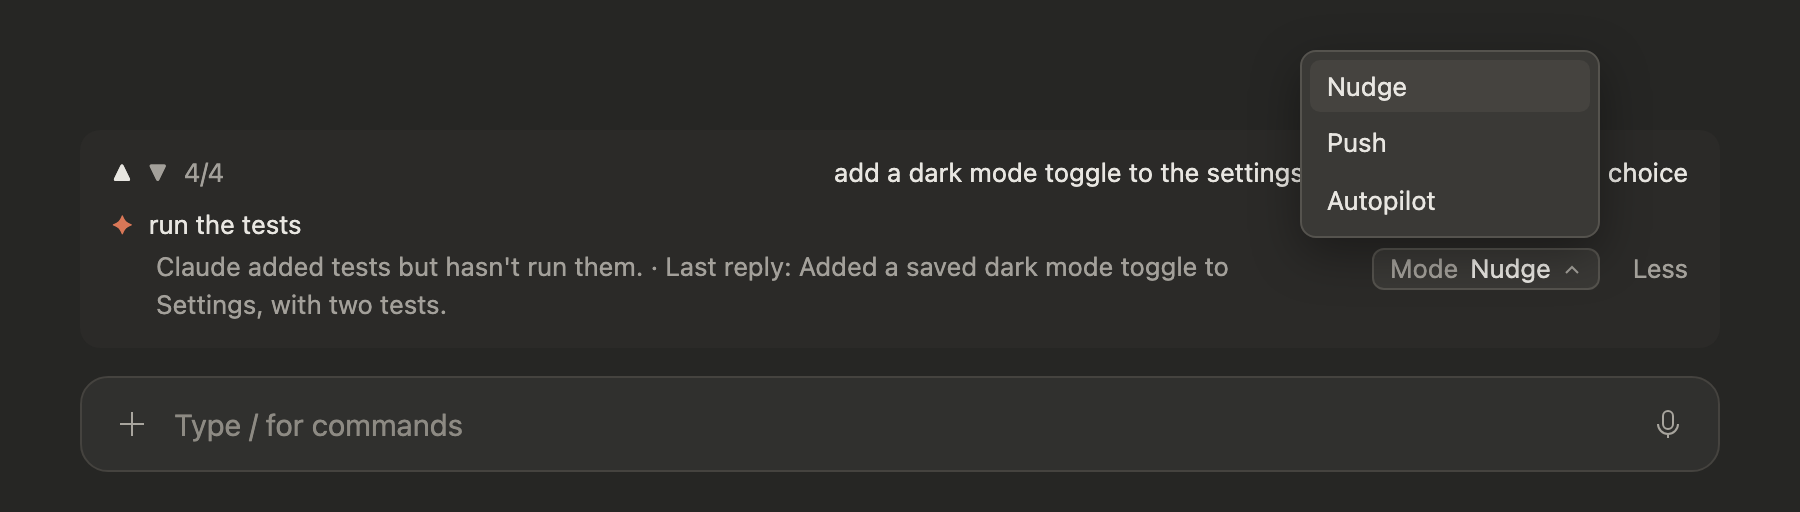
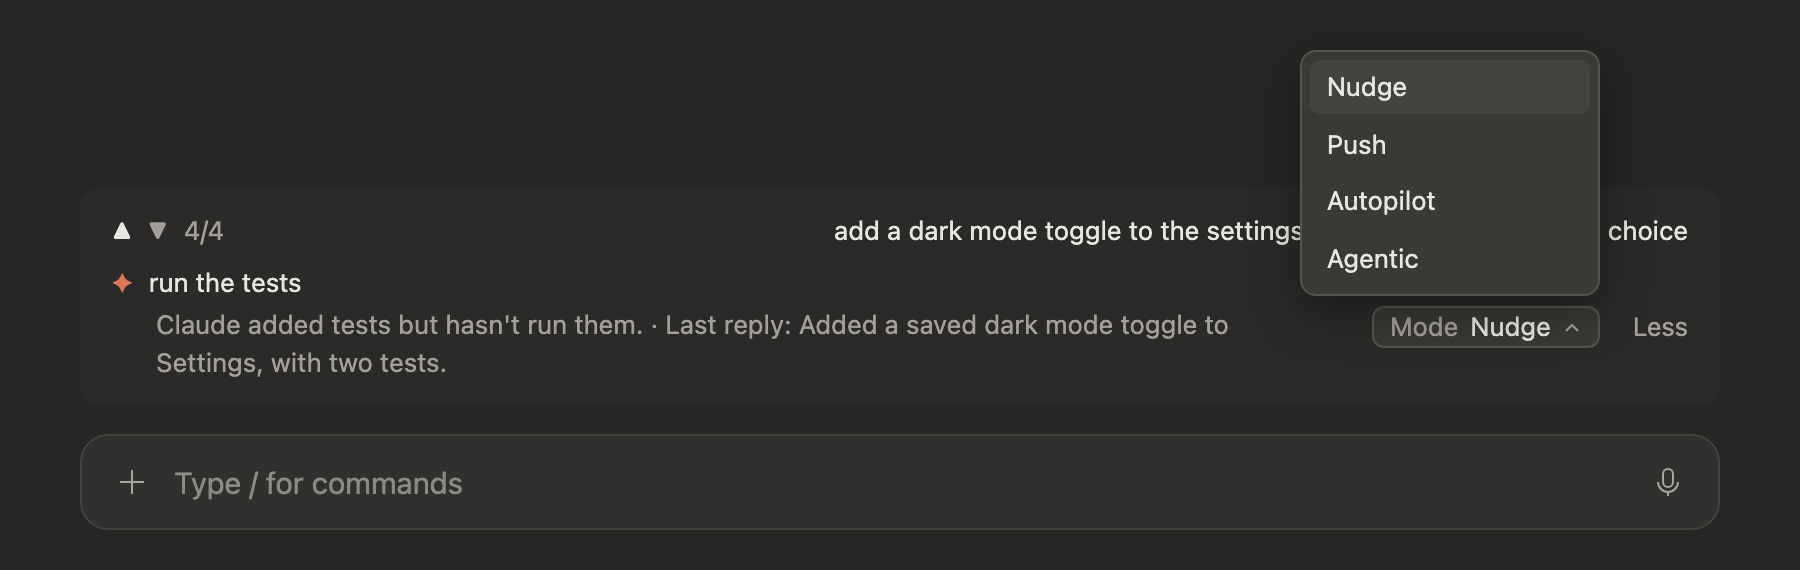
Add an Agentic mode: the Autopilot brief, ending in a pull request
Autopilot keeps its work on the developer's machine: by its own rule a
brief leaves out pushing, and a third of recent briefs said so outright.
That is wanted, so its prompt is unchanged, byte for byte.

Agentic is a fourth mode for the times a pull request is the point. It
asks for the same hand-over (goal, a done condition Claude can check,
keep going, a closing summary) and then for three named steps: commit on
the branch the session is working on, or on a new one if that is the
default branch; push that branch; open a pull request, or update the one
the session already opened. The brief tells Claude not to merge, deploy,
push to the default branch or force-push. Work that changes no files,
such as an investigation, gets no pull request. Migrations, seed
scripts, deleting data and posting comments still need the developer's
word in the session.

It runs on Fable 5.2 like Autopilot, with room for a slightly longer
brief (200 words, 1,400 characters). `/suggest agentic` and the Mode
dropdown pick it. The README, the dropdown mock-up and its screenshot
show four modes. Version 1.2.0.

diff --git a/hooks/suggestions.tsx b/hooks/suggestions.tsx
@@ -112,10 +112,26 @@ Claude finished a refactor and listed two call sites it left alone: Update the t
 // blockers, exact names for what is and is not approved, and a closing
 // summary that stands on its own. It is written as prose because the brief
 // must be prose, and a prompt's own format shows up in its output.
+const HANDOVER = `Write the message they would send to hand Claude the whole next piece of work to run on its own. Say what Claude could not work out alone: the goal, with the files, commands or areas the conversation named for it; what done looks like, as something Claude can check itself (tests or a build passing, a page behaving a certain way, a question answered with evidence); and any limit the developer set earlier in the session, such as read-only, one environment, or files to leave alone. Ask Claude to keep going until it gets there, or until an investigation reaches a conclusion, working through ordinary errors on its own and stopping early only for something it needs from the developer. Ask it to finish with a short summary that stands on its own: what it did, what it found, what is left.
+Stay within what this conversation is building: no unrelated new ideas.`
+
+// Autopilot stays on the person's machine: by 2026-11-17 a third of its
+// briefs told Claude not to push, and the person likes that it "just grinds
+// locally".
 const AUTOPILOT = `Size: one paragraph of plain sentences, 60 to 150 words, written the way they write. The app draws it as a single paragraph and discards anything longer than 170 words.
-Write the message they would send to hand Claude the whole next piece of work to run on its own. Say what Claude could not work out alone: the goal, with the files, commands or areas the conversation named for it; what done looks like, as something Claude can check itself (tests or a build passing, a page behaving a certain way, a question answered with evidence); and any limit the developer set earlier in the session, such as read-only, one environment, or files to leave alone. Ask Claude to keep going until it gets there, or until an investigation reaches a conclusion, working through ordinary errors on its own and stopping early only for something it needs from the developer. Ask it to finish with a short summary that stands on its own: what it did, what it found, what is left.
-Stay within what this conversation is building: no unrelated new ideas.
+${HANDOVER}
 Leave out steps that are hard to undo or that reach beyond the developer's machine (deploying, pushing, merging, running migrations or seed scripts, deleting data, posting comments or messages) unless the developer already asked for that step in this session; then name the exact step.`
+
+// Agentic is Autopilot that ends in a pull request (the person's ask,
+// 2026-11-18: "actually does some PRs but no merge or deploys"). The brief
+// names what is approved (commit, push the branch, the pull request) and what
+// is not, because Claude acts on exactly what a message approves. Picking the
+// mode is the person's standing yes to those three steps; everything else
+// that reaches outward still needs their word in the session.
+const AGENTIC = `Size: one paragraph of plain sentences, 80 to 170 words, written the way they write. The app draws it as a single paragraph and discards anything longer than 200 words.
+${HANDOVER}
+This mode ends in a pull request and goes no further. When the work changes files, ask Claude to finish, once it is done and checked, by committing on the branch the session is working on, or on a new branch if that is the default branch, pushing that branch, and opening a pull request, or updating the one this session already opened, with a description of what changed, how it was checked and what is left. Have the message say that Claude must not merge the pull request, deploy, push to the default branch or force-push. When the work changes no files, such as an investigation, ask for the findings and no pull request.
+Leave out running migrations or seed scripts, deleting data, and posting comments or messages other than the pull request itself, unless the developer already asked for that step in this session; then name the exact step.`
 
 // NEXT comes first so a reply cut short still carries the guess. The reason
 // is asked for a silence too, so the log says why a turn got no suggestion.
@@ -208,12 +224,30 @@ const LENGTHS: Record<Length, LengthRule> = {
     answerChars: 10_000,
     prompts: 6,
   },
+  // Autopilot's model and reading; the brief also carries the hand-off to a
+  // pull request, so it may run a little longer.
+  agentic: {
+    model: 'claude-fable-5-2',
+    modelName: 'Fable 5.2',
+    effort: 'high',
+    format: AGENTIC,
+    maxWords: 200,
+    maxChars: 1_400,
+    maxTokens: 8_000,
+    answerChars: 10_000,
+    prompts: 6,
+  },
 }
 
-const LENGTH_NAMES: readonly Length[] = ['short', 'medium', 'thorough']
-// The names the person sees (their pick, 2026-11-05); the stored values stay
-// short, medium and thorough.
-const LENGTH_LABELS: Record<Length, string> = { short: 'Nudge', medium: 'Push', thorough: 'Autopilot' }
+const LENGTH_NAMES: readonly Length[] = ['short', 'medium', 'thorough', 'agentic']
+// The names the person sees (their picks, 2026-11-05 and 2026-11-18); the
+// stored values stay short, medium, thorough and agentic.
+const LENGTH_LABELS: Record<Length, string> = {
+  short: 'Nudge',
+  medium: 'Push',
+  thorough: 'Autopilot',
+  agentic: 'Agentic',
+}
 const LENGTH_KEY = 'length'
 // A guess longer than this is drawn as wrapping text with its own button: a
 // button's label never wraps on the desktop.
@@ -652,7 +686,7 @@ function status(length: Length, isCompact: boolean) {
   const lines = recent.length > 0 ? recent.map(line => `- ${line}`).join('\n') : '- nothing yet'
 
   return [
-    `Fill-in suggestions are always on. Mode: ${LENGTH_LABELS[length]}, written by ${LENGTHS[length].modelName} (/suggest nudge, push or autopilot).`,
+    `Fill-in suggestions are always on. Mode: ${LENGTH_LABELS[length]}, written by ${LENGTHS[length].modelName} (/suggest nudge, push, autopilot or agentic).`,
     `View: ${isCompact ? 'one line' : 'full'} (/suggest compact or full).`,
     `This session:\n${lines}`,
   ].join(' ')
@@ -663,7 +697,7 @@ export async function startSuggestions($: EngineInterface) {
   await $.command.register({
     name: 'suggest',
     description: 'Show what the suggestion fill-in did, or set its mode',
-    argumentHint: 'nudge | push | autopilot | compact | full',
+    argumentHint: 'nudge | push | autopilot | agentic | compact | full',
   })
   // The length and the view are the person's standing choices, so every
   // session starts with them.
@@ -743,7 +777,7 @@ export function registerSuggestions(on: On) {
     }
     const length = lengthNamed(arg)
     if (length === undefined) {
-      return { text: `Unknown option "${arg}". Use /suggest nudge, /suggest push or /suggest autopilot.` }
+      return { text: `Unknown option "${arg}". Use /suggest nudge, /suggest push, /suggest autopilot or /suggest agentic.` }
     }
     const why = await chooseLength($, length)
     const again = why === 'asking again' ? ' Writing a new suggestion for this reply.' : ''

diff --git a/hooks/suggestions.test.tsx b/hooks/suggestions.test.tsx
@@ -589,6 +589,8 @@ test('/suggest thorough asks for a whole task, keeps it, and draws a long guess 
   await clock.advance(SHOWS)
   expect(seen.asks[0]).toContain('keep going until it gets there')
   expect(seen.asks[0]).toContain('Leave out steps that are hard to undo')
+  // Autopilot stays on the person's machine: the pull request is Agentic's.
+  expect(seen.asks[0]).not.toContain('pull request')
   expect(seen.shown).toEqual([BRIEF])
   // Every Autopilot brief is Fable's.
   expect(seen.models.length).toBeGreaterThan(0)
@@ -607,6 +609,40 @@ test('/suggest thorough asks for a whole task, keeps it, and draws a long guess 
   // The old names still work.
   expect((await $.command.run(slash('medium'))).text).toContain('Suggestion mode: Push (Opus 5.5).')
   expect(store.get('length')).toBe('medium')
+})
+
+test('/suggest agentic asks for a brief that ends in a pull request and goes no further', async ($, on) => {
+  const { clock, seen, store } = engine(on, { ...DESKTOP, reply: LONG_REPLY })
+  stepWith(on, WARM)
+  await $.session.start({ cwd: '/', surface: 'desktop', isInteractive: true })
+
+  const set = await $.command.run(slash('agentic'))
+  expect(set.text).toBe('Suggestion mode: Agentic (Fable 5.2). Writing a new suggestion for this reply.')
+  expect(store.get('length')).toBe('agentic')
+
+  await turn($, WARM)
+  await clock.advance(SHOWS)
+  // The same hand-over as Autopilot, then the three steps the mode approves
+  // and the ones it never does.
+  expect(seen.asks[0]).toContain('keep going until it gets there')
+  expect(seen.asks[0]).toContain('pushing that branch, and opening a pull request')
+  expect(seen.asks[0]).toContain('must not merge the pull request, deploy, push to the default branch or force-push')
+  expect(seen.asks[0]).not.toContain('Leave out steps that are hard to undo')
+  expect([...new Set(seen.models)]).toEqual(['claude-fable-5-2'])
+  expect([...new Set(seen.efforts)]).toEqual(['high'])
+  expect(seen.shown).toEqual([BRIEF])
+
+  // The dropdown offers it, and picking another mode there leaves it.
+  const band = await $.ui.mount({ ...BAND, surface: 'desktop' })
+  expect(await band.find({ key: 'length' })).toBeDefined()
+  await band.select({ key: 'length', value: 'thorough' })
+  expect(store.get('length')).toBe('thorough')
+  await band.select({ key: 'length', value: 'agentic' })
+  expect(store.get('length')).toBe('agentic')
+  await band.unmount()
+
+  expect((await $.command.run(slash(''))).text).toContain('Mode: Agentic, written by Fable 5.2')
+  expect((await $.command.run(slash('loud'))).text).toContain('/suggest autopilot or /suggest agentic')
 })
 
 test('the dropdown on the band asks again at the new length, where a long guess is refused', async ($, on) => {

diff --git a/docs/mockups/Readme-modes.dc.html b/docs/mockups/Readme-modes.dc.html
@@ -37,6 +37,7 @@ a{color:#e8a58c}a:hover{color:#f3c2ae}
               <button type="button" role="option" aria-selected="true" style="font: inherit; padding: 4px 8px; background: #45433f; border: 0; border-radius: 5px; color: #e8e6e1; text-align: left; cursor: pointer">Nudge</button>
               <button type="button" role="option" aria-selected="false" style="font: inherit; padding: 4px 8px; background: transparent; border: 0; border-radius: 5px; color: #e8e6e1; text-align: left; cursor: pointer">Push</button>
               <button type="button" role="option" aria-selected="false" style="font: inherit; padding: 4px 8px; background: transparent; border: 0; border-radius: 5px; color: #e8e6e1; text-align: left; cursor: pointer">Autopilot</button>
+              <button type="button" role="option" aria-selected="false" style="font: inherit; padding: 4px 8px; background: transparent; border: 0; border-radius: 5px; color: #e8e6e1; text-align: left; cursor: pointer">Agentic</button>
             </div>
           </div>
           <button type="button" style="font: inherit; padding: 0; background: transparent; border: 0; color: #a3a09a; cursor: pointer">Less</button>

diff --git a/types/index.d.ts b/types/index.d.ts
@@ -17,8 +17,9 @@ export interface SuggestionDetail {
 export type Detail = SuggestionDetail | null
 // How long and detailed the guess is, shown as the Mode: short (Nudge) is
 // Claude Code's own size, thorough (Autopilot) hands Claude a whole piece of
-// work. Kept across sessions in the plugin's store.
-export type Length = 'short' | 'medium' | 'thorough'
+// work to run on the person's machine, and agentic (Agentic) is that brief
+// ending in a pull request. Kept across sessions in the plugin's store.
+export type Length = 'short' | 'medium' | 'thorough' | 'agentic'
 // True when the strip folds the guess to one line. Kept across sessions in
 // the plugin's store.
 export type IsCompact = boolean

diff --git a/README.md b/README.md
@@ -15,15 +15,16 @@ It adds a strip above the prompt box:
   - **Nudge** (the default, Sonnet 5.5): 2–12 words, like Claude Code's own suggestion.
   - **Push** (Opus 5.5): one or two sentences (10–40 words) naming the concrete next task and the files or checks it involves.
   - **Autopilot** (Fable 5.2): a full hand-off brief (goal, steps, what done looks like, keep going until done unless blocked) so Claude can carry a feature or an investigation through. Fable is told to leave out deploying, pushing, merging, migrations, seed scripts, deleting data and posting comments or messages unless you already asked for them in the chat, so read a brief before you send it.
+  - **Agentic** (Fable 5.2): the Autopilot brief, ending in a pull request. Claude is asked to finish the work, commit it on a branch, push that branch and open a pull request (or update the one the chat already opened), and told not to merge, deploy, push to the default branch or force-push. Work that changes no files, such as an investigation, gets no pull request. Picking this mode is your yes to those three steps, so read a brief before you send it.
 - **Less / More**: fold the suggestion to one line, or show it in full. Your Mode and view are remembered across chats.
 
 ### Modes
 
-Pick a mode from the **Mode** dropdown at the end of the dim line. The suggestion for the current reply is written again at that length right away.
+Pick one of the four modes from the **Mode** dropdown at the end of the dim line. The suggestion for the current reply is written again at that length right away.
 
-![The Mode dropdown open: Nudge, Push and Autopilot](docs/modes.png)
+![The Mode dropdown open: Nudge, Push, Autopilot and Agentic](docs/modes.png)
 
-Autopilot writes a brief Claude can run to the end on its own. The strip shows up to 600 characters of it; **Use it** puts the whole brief in the box.
+Autopilot writes a brief Claude can run to the end on its own, on your machine; Agentic writes the same brief and adds the pull request. The strip shows up to 600 characters of it; **Use it** puts the whole brief in the box.
 
 ![An Autopilot suggestion: a full paragraph with a Use it button](docs/autopilot.png)
 
@@ -35,7 +36,7 @@ Autopilot writes a brief Claude can run to the end on its own. The strip shows u
 
 ### While it thinks
 
-While a suggestion is being written, the line under the history row shows pulsing dots and "Thinking of a suggestion…" (in Push or Autopilot, "Thinking of a Push suggestion…" or "Thinking of an Autopilot suggestion…"). It stays up at least two seconds.
+While a suggestion is being written, the line under the history row shows pulsing dots and "Thinking of a suggestion…" (in the other modes it names the mode: "Thinking of a Push suggestion…", "Thinking of an Autopilot suggestion…"). It stays up at least two seconds.
 
 ![Pulsing dots and "Thinking of an Autopilot suggestion…"](docs/thinking.png)
 
@@ -62,7 +63,7 @@ In the desktop app, where `/plugin` does not run: click **+** next to the prompt
 | Command | What it does |
 | --- | --- |
 | `/suggest` | Shows what the suggestion did this session, the current Mode and its model, and the view |
-| `/suggest nudge` · `push` · `autopilot` | Sets the Mode (and so the model) and rewrites the current suggestion |
+| `/suggest nudge` · `push` · `autopilot` · `agentic` | Sets the Mode (and so the model) and rewrites the current suggestion |
 | `/suggest compact` · `full` | Folds the suggestion to one line, or shows it in full |
 | `/prompts` | Lists every prompt of the session in a pane |
 | `/pin-prompt` | Jumps the history row back to your newest prompt; `/pin-prompt smart` toggles hiding it while your newest prompt is on screen |
@@ -76,7 +77,7 @@ In the desktop app, where `/plugin` does not run: click **+** next to the prompt
 
 **When the line stays empty on purpose:** the model is told to write nothing when Claude got your request wrong (you will want to put that right in your own words), when Claude is waiting on something only you can do and nothing else is left to suggest, or when the message itself would do harm, such as one that would have to contain a password. That silence stands for the reply; the log line starts with `silent` and gives the reason. A suggestion never says you did something the chat does not show ("I ran it", "signed in"), because Claude would take it as fact.
 
-**Cost:** every reply makes one call to the Mode's model on your own account, a second when the first suggestion fails the checks, and another each time you change the Mode. Autopilot calls are the largest, and Fable is the priciest of the three models.
+**Cost:** every reply makes one call to the Mode's model on your own account, a second when the first suggestion fails the checks, and another each time you change the Mode. Autopilot and Agentic calls are the largest, and Fable is the priciest of the three models.
 
 **Models:** each mode names a fixed model version. If your account can't use one, that mode's line stays empty and the log names the model and the error; pick another mode.
 
